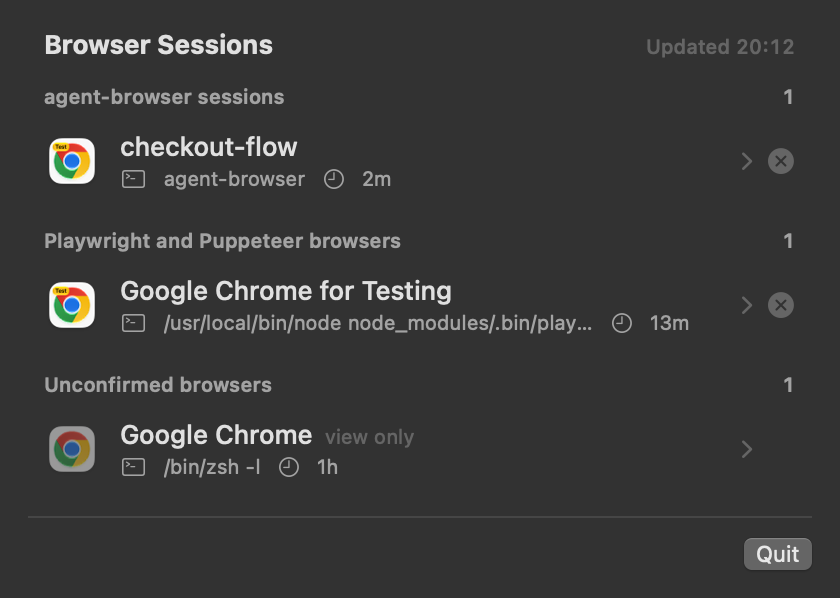
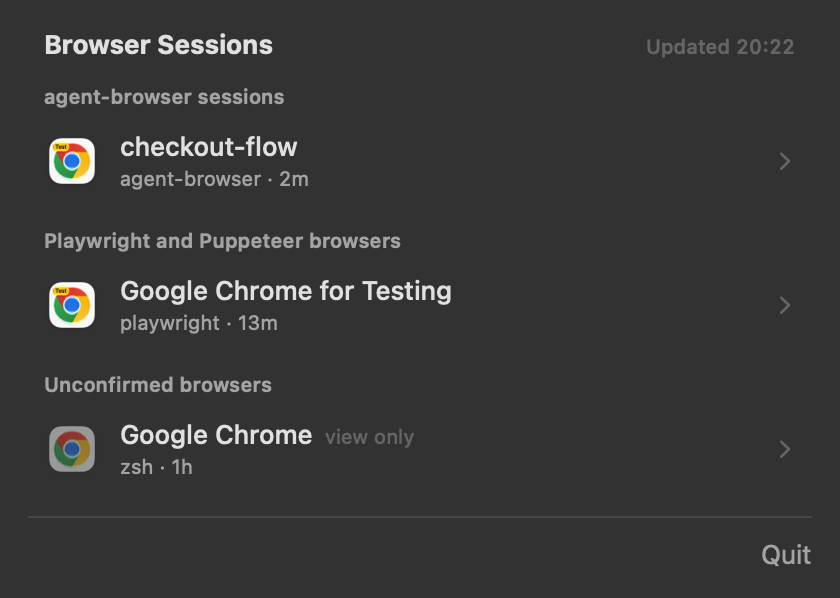
fix(ui): show close on hover, left of the chevron, and calm the rows
Hover does work in the MenuBarExtra popover. The previous commit's claim that it never fires came from testing with synthetic pointer moves that send no mouse-moved events; real CGEvent moves trigger onHover as expected.

The close button now appears left of the chevron when a row is hovered or expanded, and VoiceOver gets Close as a row action because a hidden button leaves the accessibility tree. Rows get a hover highlight and a plain 'launcher · age' subtitle (DetectedEntry.launcherName) instead of SF Symbols and a truncated command line. Section counts are gone and Quit is a borderless button.

diff --git a/BrowserSessions/Sources/BrowserSessionsCore/UI/PopoverShellView.swift b/BrowserSessions/Sources/BrowserSessionsCore/UI/PopoverShellView.swift
@@ -101,8 +101,9 @@ public struct PopoverShellView: View {
                 Button("Quit") {
                     onQuit()
                 }
+                .buttonStyle(.borderless)
+                .foregroundStyle(.secondary)
                 .keyboardShortcut("q")
-                .controlSize(.small)
                 .accessibilityLabel("Quit Browser Sessions")
             }
         }
@@ -239,13 +240,8 @@ private struct EntrySection: View {
 
     var body: some View {
         VStack(alignment: .leading, spacing: 2) {
-            HStack {
-                Text(title)
-                Spacer()
-                Text("\(entries.count)")
-                    .monospacedDigit()
-            }
-            .font(.caption.weight(.semibold))
+            Text(title)
+                .font(.caption.weight(.semibold))
             .foregroundStyle(.secondary)
             .padding(.horizontal, 8)
             .padding(.bottom, 2)
@@ -260,6 +256,7 @@ public struct EntryRowView: View {
     public let entry: DetectedEntry
     private let onClose: (DetectedEntry) -> Void
     @State private var isExpanded = false
+    @State private var isHovered = false
 
     public init(entry: DetectedEntry, onClose: @escaping (DetectedEntry) -> Void = { _ in }) {
         self.entry = entry
@@ -276,18 +273,15 @@ public struct EntryRowView: View {
         }
         .background(
             RoundedRectangle(cornerRadius: 6)
-                .fill(.quaternary.opacity(isExpanded ? 0.6 : 0))
+                .fill(.quaternary.opacity(isExpanded ? 0.6 : isHovered ? 0.4 : 0))
         )
+        .onHover { isHovered = $0 }
         .accessibilityElement(children: .contain)
     }
 
     private var compactRow: some View {
         HStack(spacing: 6) {
-            Button {
-                withAnimation(.snappy(duration: 0.16)) {
-                    isExpanded.toggle()
-                }
-            } label: {
+            Button(action: toggleExpanded) {
                 HStack(spacing: 10) {
                     BrowserIcon(executablePath: entry.processIdentity?.executablePath)
                         .opacity(entry.isClosable ? 1 : 0.5)
@@ -302,57 +296,69 @@ public struct EntryRowView: View {
                                     .foregroundStyle(.tertiary)
                             }
                         }
-                        compactMetadata
+                        Text(subtitle)
+                            .font(.caption)
+                            .foregroundStyle(.secondary)
+                            .lineLimit(1)
                     }
                     Spacer(minLength: 4)
-                    Image(systemName: "chevron.right")
-                        .font(.caption.weight(.semibold))
-                        .foregroundStyle(.tertiary)
-                        .rotationEffect(.degrees(isExpanded ? 90 : 0))
                 }
                 .contentShape(Rectangle())
             }
             .buttonStyle(.plain)
             .accessibilityLabel(accessibilityLabel)
             .accessibilityHint(isExpanded ? "Collapse details" : "Expand details")
-
-            Button {
-                onClose(entry)
-            } label: {
-                Image(systemName: "xmark.circle.fill")
-                    .font(.body)
-                    .foregroundStyle(.tertiary)
+            .accessibilityActions {
+                if entry.isClosable {
+                    Button("Close") { onClose(entry) }
+                }
             }
-            .buttonStyle(.plain)
-            .help("Close \(entry.displayName)")
-            .accessibilityLabel("Close \(entry.displayName)")
-            // Always visible: a menu bar app is not the active app, so hover tracking in its popover
-            // does not fire. Unconfirmed rows keep the slot empty so the chevrons line up.
-            .opacity(entry.isClosable ? 1 : 0)
-            .disabled(entry.isClosable == false)
-            .accessibilityHidden(entry.isClosable == false)
+
+            if entry.isClosable {
+                // Shown on hover or while expanded, like the close buttons in Notification Center.
+                // A hidden button leaves the accessibility tree, so VoiceOver gets Close as a row action.
+                Button {
+                    onClose(entry)
+                } label: {
+                    Image(systemName: "xmark.circle.fill")
+                        .font(.body)
+                        .foregroundStyle(.secondary)
+                }
+                .buttonStyle(.plain)
+                .help("Close \(entry.displayName)")
+                .accessibilityLabel("Close \(entry.displayName)")
+                .opacity(showsClose ? 1 : 0)
+                .allowsHitTesting(showsClose)
+            }
+
+            Image(systemName: "chevron.right")
+                .font(.caption.weight(.semibold))
+                .foregroundStyle(.tertiary)
+                .rotationEffect(.degrees(isExpanded ? 90 : 0))
+                .frame(width: 12)
+                .contentShape(Rectangle())
+                .onTapGesture(perform: toggleExpanded)
+                .accessibilityHidden(true)
         }
         .padding(.horizontal, 8)
         .padding(.vertical, 6)
     }
 
-    private var compactMetadata: some View {
-        HStack(spacing: 8) {
-            if let parentProcessSummary = entry.parentProcessSummary {
-                Label(parentProcessSummary, systemImage: "terminal")
-                    .lineLimit(1)
-            } else if entry.source == .agentBrowser {
-                Label("agent-browser", systemImage: "globe")
-                    .lineLimit(1)
-            }
+    private var showsClose: Bool {
+        isHovered || isExpanded
+    }
 
-            if let identity = entry.processIdentity {
-                Label(relativeAge(since: identity.startTime), systemImage: "clock")
-            }
+    private func toggleExpanded() {
+        withAnimation(.snappy(duration: 0.16)) {
+            isExpanded.toggle()
         }
-        .font(.caption)
-        .foregroundStyle(.secondary)
-        .labelStyle(.titleAndIcon)
+    }
+
+    /// "playwright · 13m": what started the browser and how long ago. The full command is in the details.
+    private var subtitle: String {
+        let launcher = entry.launcherName ?? (entry.source == .agentBrowser ? "agent-browser" : nil)
+        let age = entry.processIdentity.map { relativeAge(since: $0.startTime) }
+        return [launcher, age].compactMap { $0 }.joined(separator: " · ")
     }
 
     /// Indented to line up with the row's text, past the 28 pt icon.

diff --git a/BrowserSessions/Sources/BrowserSessionsCore/Models/DetectedEntry.swift b/BrowserSessions/Sources/BrowserSessionsCore/Models/DetectedEntry.swift
@@ -38,6 +38,19 @@ public struct DetectedEntry: Equatable, Sendable, Identifiable {
         self.signalReason = signalReason
     }
 
+    /// The program that started this browser, from its parent's command line: "zsh", "chrome-devtools-mcp",
+    /// or for a script run by an interpreter, the script ("playwright" for `node …/.bin/playwright test`).
+    public var launcherName: String? {
+        let words = parentProcessSummary?.split(separator: " ").map(String.init) ?? []
+        guard let first = words.first else { return nil }
+        let program = URL(fileURLWithPath: first).lastPathComponent
+        let interpreters: Set<String> = ["node", "bun", "deno", "python", "python3"]
+        if interpreters.contains(program), let script = words.dropFirst().first(where: { $0.hasPrefix("-") == false }) {
+            return URL(fileURLWithPath: script).deletingPathExtension().lastPathComponent
+        }
+        return program
+    }
+
     public var isClosable: Bool {
         source == .agentBrowser || confidence?.isClosable == true
     }

diff --git a/BrowserSessions/Tests/BrowserSessionsTestRunner/ProcessScannerTests.swift b/BrowserSessions/Tests/BrowserSessionsTestRunner/ProcessScannerTests.swift
@@ -5,6 +5,19 @@ import BrowserSessionsCore
 func runProcessScannerTests(_ harness: inout TestHarness) async {
     testScannerListsEachBrowserOnce(&harness)
     testScannerToleratesDuplicatePIDs(&harness)
+    testLauncherNames(&harness)
+}
+
+@MainActor
+private func testLauncherNames(_ harness: inout TestHarness) {
+    func launcher(_ parent: String?) -> String? {
+        DetectedEntry(id: "x", source: .process, sessionName: "x", parentProcessSummary: parent).launcherName
+    }
+    harness.expectEqual(launcher("/usr/local/bin/node node_modules/.bin/playwright test a.spec.ts"), "playwright", "interpreter runs a script: name the script")
+    harness.expectEqual(launcher("node --inspect /srv/run-tests.mjs"), "run-tests", "interpreter flags are skipped")
+    harness.expectEqual(launcher("chrome-devtools-mcp"), "chrome-devtools-mcp", "plain program name")
+    harness.expectEqual(launcher("/bin/zsh -l"), "zsh", "path is reduced to the program")
+    harness.expectEqual(launcher(nil), nil, "no parent, no launcher")
 }
 
 @MainActor

diff --git a/docs/qa/manual-ae-checklist.md b/docs/qa/manual-ae-checklist.md
@@ -28,7 +28,7 @@ Expected: count equals total rows across all sections.
    - Playwright and Puppeteer browsers
    - Unconfirmed browsers
 
-Expected: each row shows the browser's app icon. Closable rows have a ⊗ button at the right edge; unconfirmed rows show `view only` and a dimmed icon.
+Expected: each row shows the browser's app icon and a "launcher · age" subtitle. Hovering a closable row highlights it and shows a ⊗ button left of the chevron; it also shows while the row is expanded. Unconfirmed rows show `view only`, a dimmed icon and no ⊗.
 
 ## AE3 / AE10 — Zero-state and hide behavior
 
@@ -78,7 +78,7 @@ Expected: LOW row is visible, shows `view only`, and has no ⊗ button.
 
 ## AE8 — Cancel confirmation
 
-1. Click the ⊗ button on a closable row.
+1. Hover a closable row and click its ⊗ button.
 2. Click `Cancel` in the inline confirmation.
 
 Expected: only the confirmation panel closes; the popover remains open and no close action runs.
@@ -87,7 +87,7 @@ Expected: only the confirmation panel closes; the popover remains open and no cl
 
 Use VoiceOver or Accessibility Inspector on representative rows.
 
-Expected: row labels name the section (agent-browser session, Playwright or Puppeteer browser, unconfirmed browser), the PID when present, and "can be closed" or "view only". Each closable row also has a "Close <name>" button.
+Expected: row labels name the section (agent-browser session, Playwright or Puppeteer browser, unconfirmed browser), the PID when present, and "can be closed" or "view only". Closable rows offer a "Close" action in the VoiceOver Actions menu (VO-Command-Space), since the ⊗ button is hidden until hover.
 
 ## AE11 — Degraded CLI state
 
